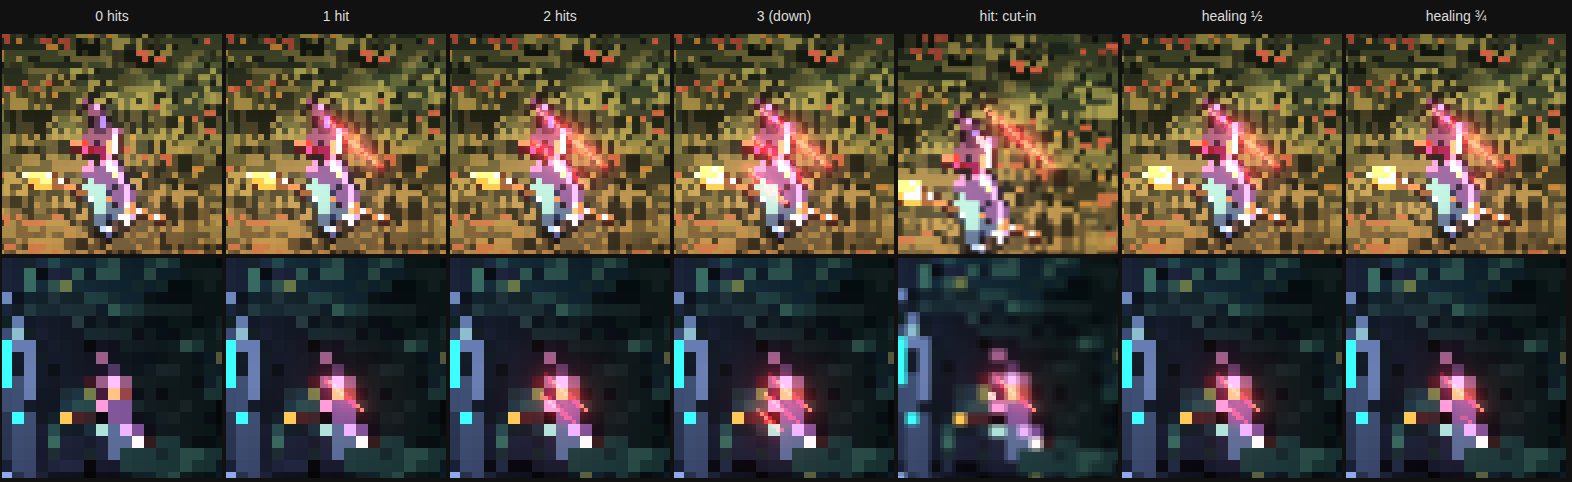
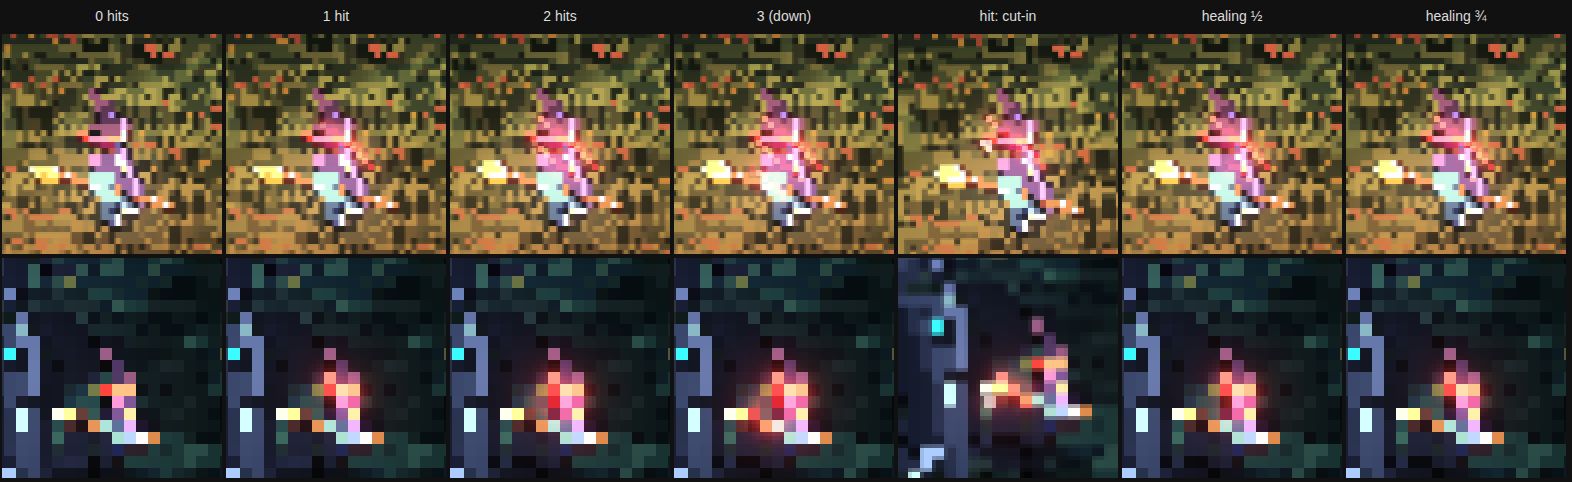
Claw slashes on the game's pixel grid (Ed: "It should be on the same pixel grid")
Each slash pixel is now one game pixel (pixelSize screen pixels) and the
slashes' canvas is placed on whole game pixels from the scene canvas's top
left, so they line up with the scene's pixels. They still scale with her:
the drawing is scaled by her art pixel in game pixels (in sixteenths, at
least a quarter), so from the treetops they're drawn in fewer pixels of the
same size. The glow and the drain are unchanged. New crops.

Claude-Session: https://claude.ai/code/session_01FVGKHvaavDn5xGsWtRTBaz

diff --git a/src/render/leash/bubbles.ts b/src/render/leash/bubbles.ts
@@ -155,7 +155,7 @@ export function drawDreams(lv: LeashView, camera: THREE.Camera, width: number, h
 /** Her hits, as claw slashes over her body (leash/slashes.ts), screen-aligned: one per hit taken, the newest slashing in
  *  with a flash and draining from its upper tip as its hit heals; none while she's whole or knocked out. */
 export function drawSlashes(lv: LeashView, time: number, camera: THREE.Camera, width: number, height: number): void {
-  const g = lv.game, W = g.witches[0], T = g.tuning.witchHealth, px = g.tuning.pixelSize; // (px: her art pixel on screen if her frame's unknown)
+  const g = lv.game, W = g.witches[0], T = g.tuning.witchHealth, px = g.tuning.pixelSize; // (a game pixel on screen)
   let cv = lv.slashCanvas;
   if (!cv) {
     cv = document.createElement("canvas"); cv.width = SLASH_W; cv.height = SLASH_H; cv.className = "claw-slashes";
@@ -168,15 +168,15 @@ export function drawSlashes(lv: LeashView, time: number, camera: THREE.Camera, w
   const st = slashState(W.health, T.hits, T.repairTime, time);
   if (!st.count || W.ko?.out) { cv.style.display = "none"; return; } // (the third, the knockdown, shows as she goes down, until she sparkles out)
   const w = g.witch;
-  // (sized to her, Ed 2026-10-08: "slashes: scale with her": a slash pixel is one of her art pixels as drawn on screen, her
-  // frame's height on screen over its height in art pixels, so they sit over her body in the same proportion at every camera;
-  // whole screen pixels per slash pixel while she's drawn that big, else drawn smaller at one screen pixel each, crisp either way)
+  // (sized to her and on the game's pixel grid, Ed 2026-10-08: "slashes: scale with her", "It should be on the same pixel
+  // grid": each slash pixel is one game pixel (pixelSize screen pixels, snapped to the scene's grid, which starts at the
+  // canvas's top left); their drawing is scaled by her art pixel in game pixels, her frame's height on screen over its height
+  // in art pixels, so they sit over her body in the same proportion at every camera, in fewer pixels when she's smaller)
   placed(lv.v.set(w.x, lv.feetY, w.z)).project(camera); const feet = lv.v.y;
   placed(lv.v.set(w.x, lv.hatTop, w.z)).project(camera); const top = lv.v.y;
   const herPx = lv.frameH > 0 ? (Math.abs(top - feet) / 2) * height / lv.frameH : px;
-  const s = Math.max(1, Math.round(herPx)), geo = herPx < 0.75 ? Math.max(0.25, Math.round(herPx * 8) / 8) : 1, { w: cw, h: ch } = slashSize(geo); // (geometry in steps, so it isn't redrawn every frame)
-  if (geo !== lv.slashGeo) { lv.slashGeo = geo; lv.slashPx = slashPixels(geo); lv.slashKey = ""; cv.width = cw; cv.height = ch; }
-  if (s !== lv.slashScale || lv.slashKey === "") { lv.slashScale = s; cv.style.width = `${cw * s}px`; cv.style.height = `${ch * s}px`; }
+  const geo = Math.min(1, Math.max(0.25, Math.round((herPx / px) * 16) / 16)), { w: cw, h: ch } = slashSize(geo); // (in steps, so it isn't redrawn every frame)
+  if (geo !== lv.slashGeo) { lv.slashGeo = geo; lv.slashPx = slashPixels(geo); lv.slashKey = ""; cv.width = cw; cv.height = ch; cv.style.width = `${cw * px}px`; cv.style.height = `${ch * px}px`; }
   const key = `${st.count}:${Math.round(st.cut * 24)}:${Math.round(st.flash * 6)}:${Math.round(st.drained * 30)}`;
   if (key !== lv.slashKey) {
     lv.slashKey = key;
@@ -185,8 +185,8 @@ export function drawSlashes(lv: LeashView, time: number, camera: THREE.Camera, w
   }
   placed(lv.v.set(w.x, lv.bodyY, w.z)).project(camera); // (over her body, wherever she flies)
   cv.style.display = lv.v.z > 1 ? "none" : "";
-  cv.style.left = `${Math.round(((lv.v.x + 1) / 2) * width - (cw * s) / 2)}px`;
-  cv.style.top = `${Math.round(((1 - lv.v.y) / 2) * height - (ch * s) / 2)}px`;
+  cv.style.left = `${Math.round((((lv.v.x + 1) / 2) * width) / px - cw / 2) * px}px`;
+  cv.style.top = `${Math.round((((1 - lv.v.y) / 2) * height) / px - ch / 2) * px}px`;
 }
 
 export function drawCirclePanel(lv: LeashView, camera: THREE.Camera, width: number, height: number): void {

diff --git a/src/render/leash.ts b/src/render/leash.ts
@@ -100,7 +100,6 @@ export class LeashView {
   /** her hits as claw slashes (leash/bubbles.ts drawSlashes): the canvas, what it last drew, the slashes' pixels */
   slashCanvas: HTMLCanvasElement | null = null;
   slashKey = "";
-  slashScale = 0;
   slashGeo = 0;
   slashPx: SlashPixel[][] | null = null;
   /** the height of her body's middle this frame (the slashes go over it) */
